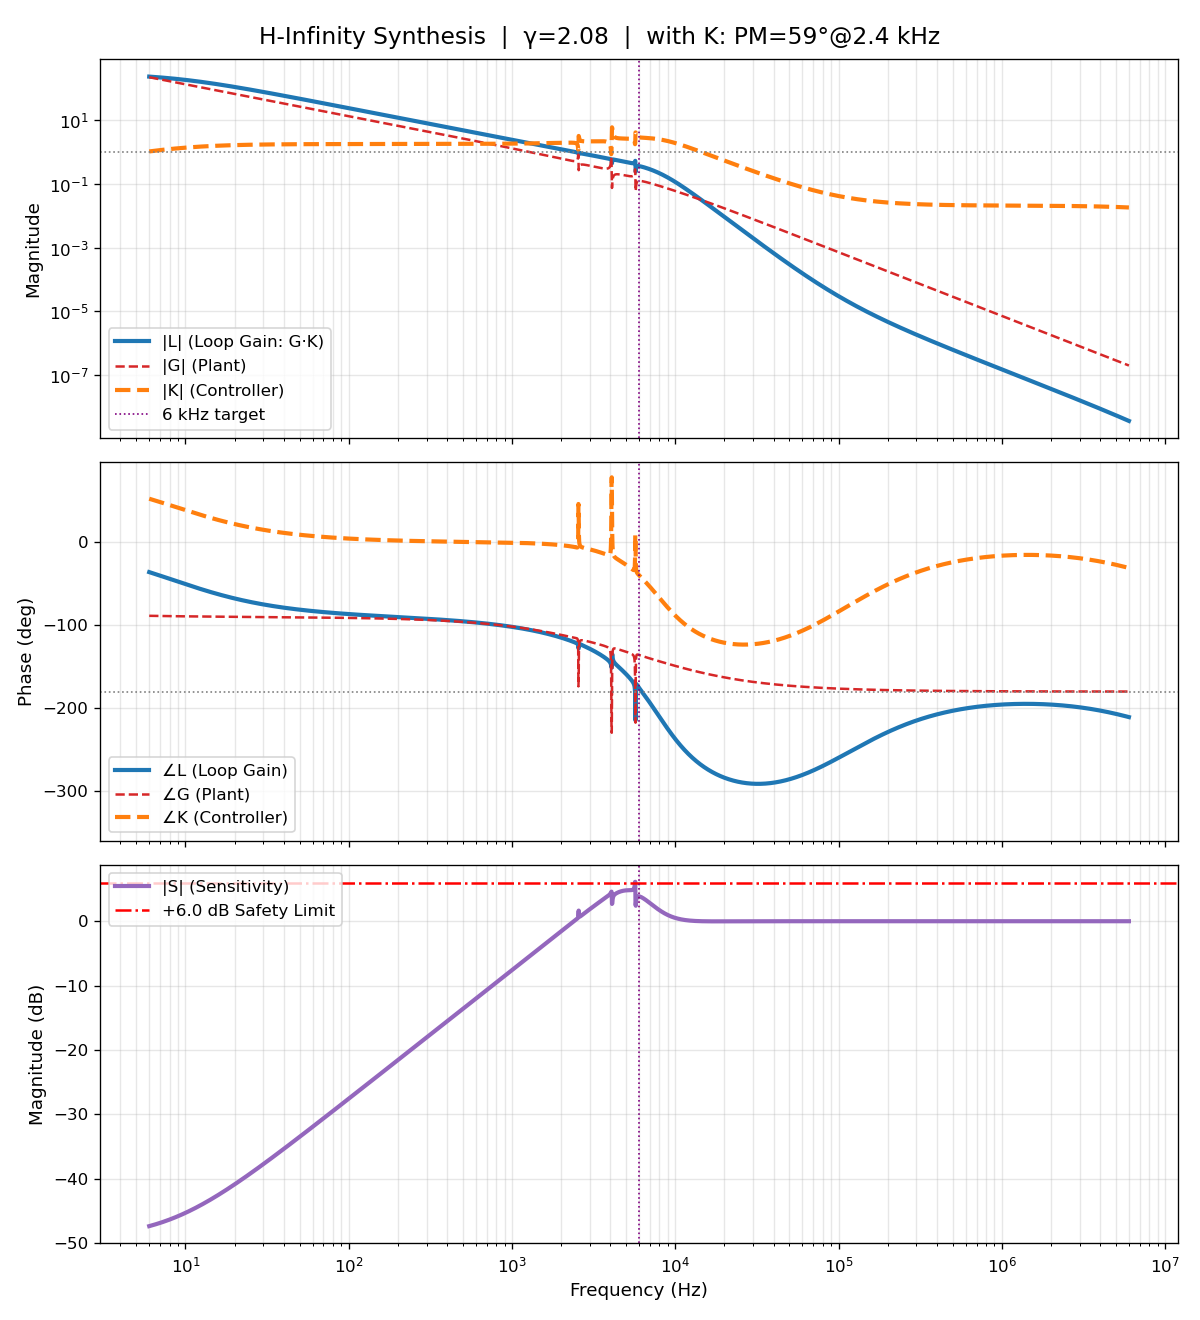
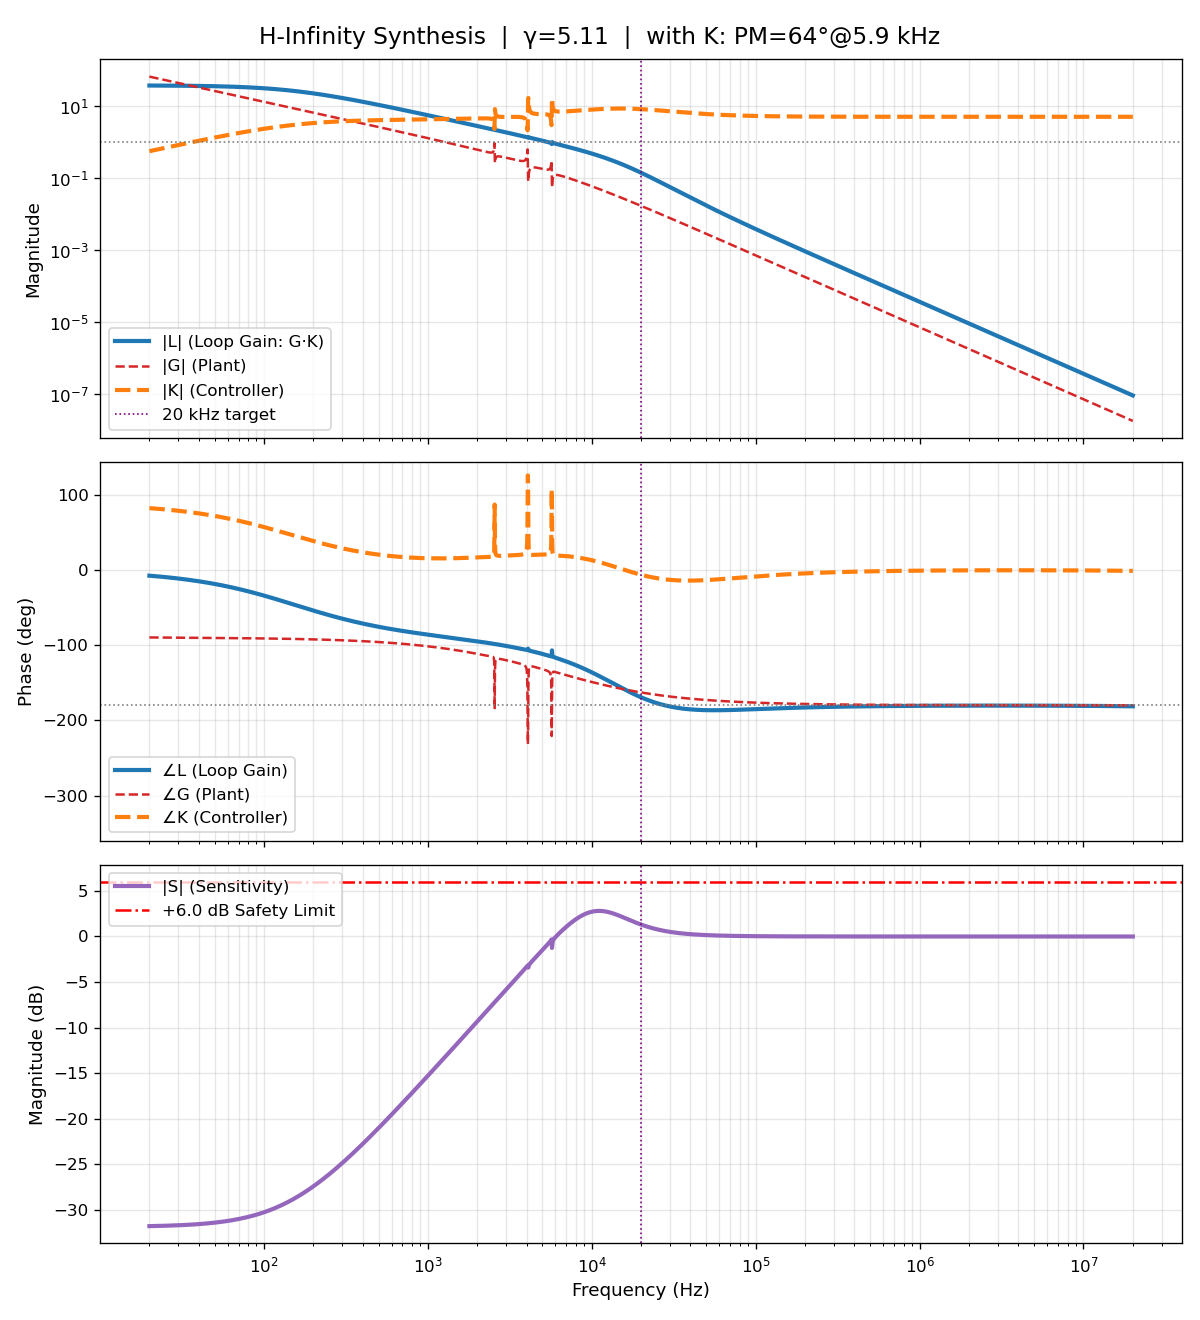
new controller

diff --git a/src/hinf_coeffs.h b/src/hinf_coeffs.h
@@ -1,26 +1,24 @@
 // hinf_coeffs.h — auto-generated by coeffs_analyze.py
-// Q3.29  8 sections  fs=0.9766 MHz  quant err -56.0 dB
-// HLS arithmetic check: AP_TRN_ZERO, step +50: fx +0, float +31.65, maxerr 110.1; step -50: fx +0, float -31.65, maxerr 110.1
+// Q4.28  6 sections  fs=0.9766 MHz  quant err -52.8 dB
+// HLS arithmetic check: AP_TRN_ZERO, step +50: fx +0, float +0.66, maxerr 78.9; step -50: fx +0, float -0.66, maxerr 78.9
 #ifndef HINF_COEFFS_H
 #define HINF_COEFFS_H
 #include <stdint.h>
 
-#define HINF_N_SECTIONS     8
-#define HINF_COEF_INT_BITS  3
-#define HINF_COEF_FRAC_BITS 29
-#define HINF_COEF_SCALE     536870912L
+#define HINF_N_SECTIONS     6
+#define HINF_COEF_INT_BITS  4
+#define HINF_COEF_FRAC_BITS 28
+#define HINF_COEF_SCALE     268435456L
 
 typedef struct { int32_t b0,b1,b2,a1,a2; } hinf_sos_t;
 
-static const hinf_sos_t HINF_SOS[8] = {
-    {   18256015,   -9369053,          0,  155425537,          0},
-    {  536870912,  340846602,   54098855,  355872136,   59255528},
-    {  536870912,  707315672,  170444760,    4207031, -474491254},
-    {  536870912, -788485656,  263253782,-1044233399,  508700199},
-    {  536870912,-1072909526,  536757049,-1072902487,  536754171},
-    {  536870912,-1073283254,  536778780,-1073265091,  536766566},
-    {  536870912,-1062771974,  525901074,-1059853522,  522983353},
-    {  536870912,-1073560904,  536834585,-1073550460,  536824955}
+static const hinf_sos_t HINF_SOS[6] = {
+    {  932784050,-1726697792,  793913884, -503474883,  236472737},
+    {  268435456, -519431527,  251240330, -261475156,          0},
+    {  268435456, -536454763,  268378525, -536446123,  268374039},
+    {  268435456, -536641627,  268389390, -536646245,  268397111},
+    {  268435456, -536780452,  268417292, -536776470,  268413767},
+    {  268435456,  268435456,          0,     125549, -268302004}
 };
 
 #endif
